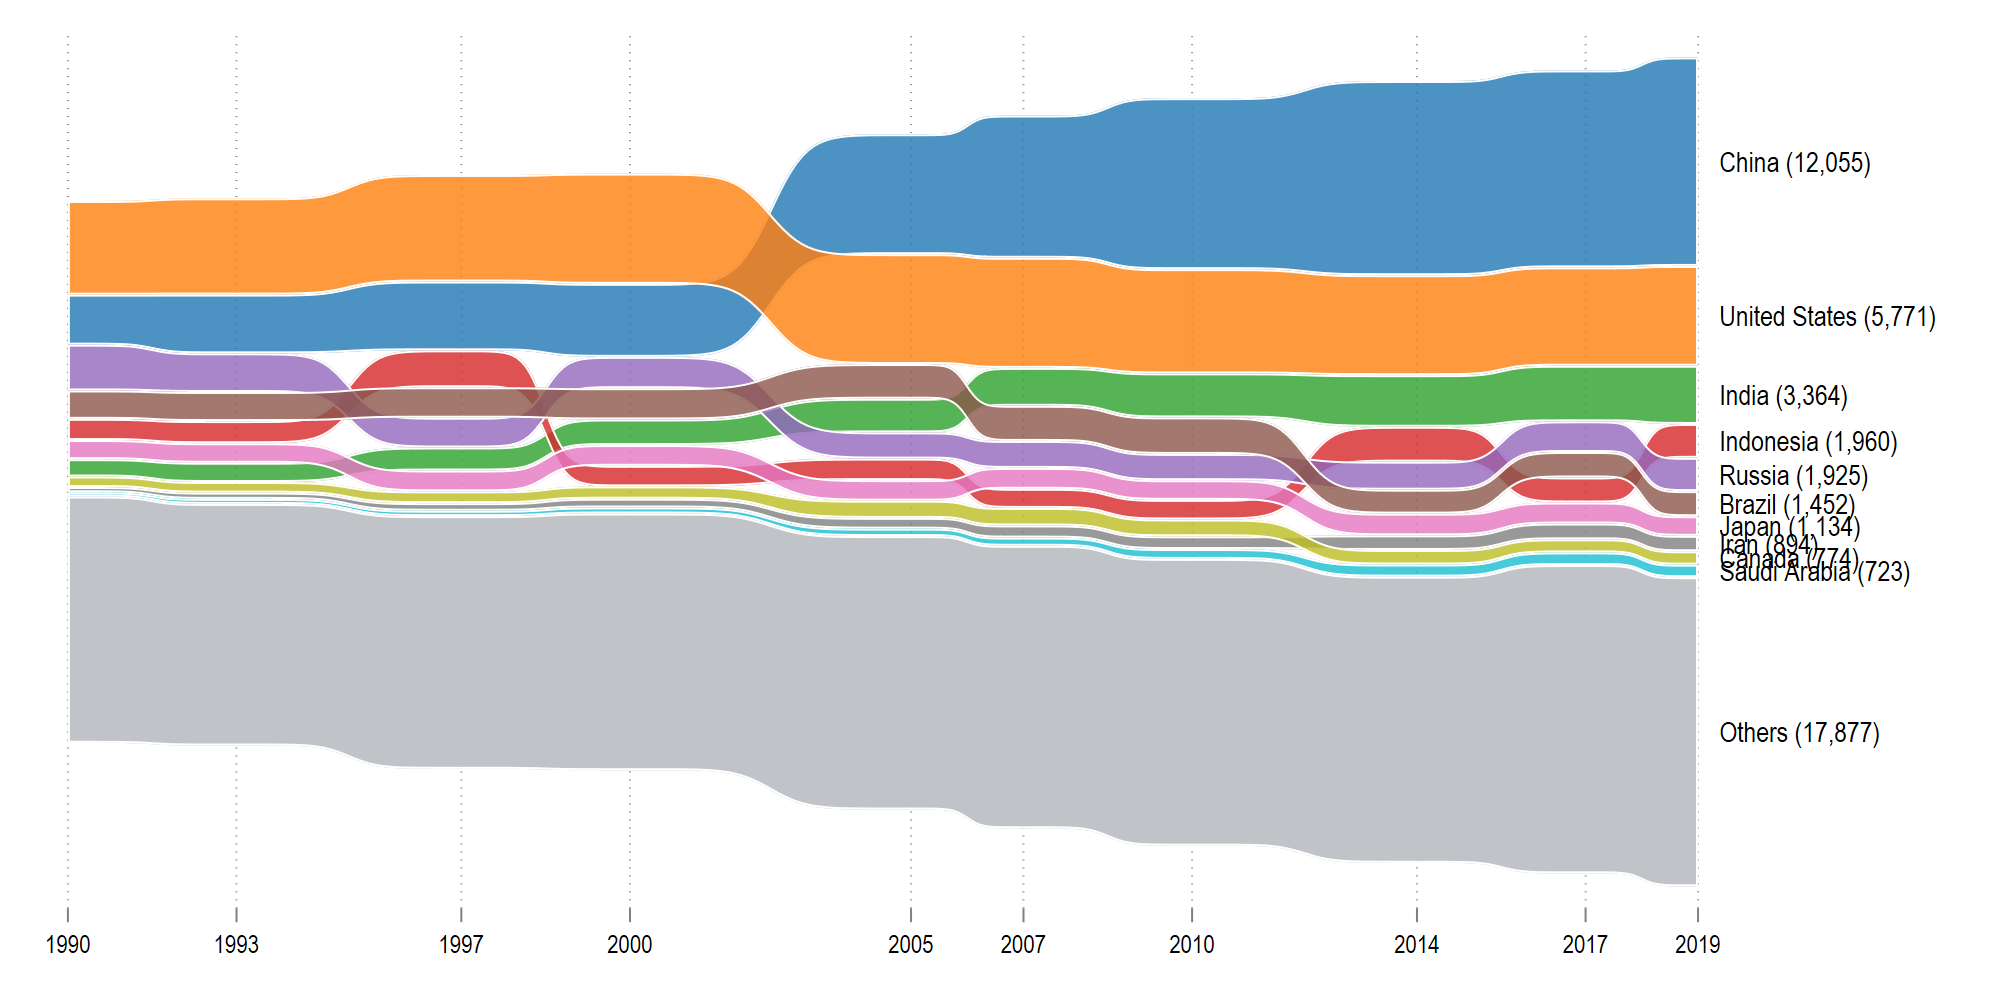
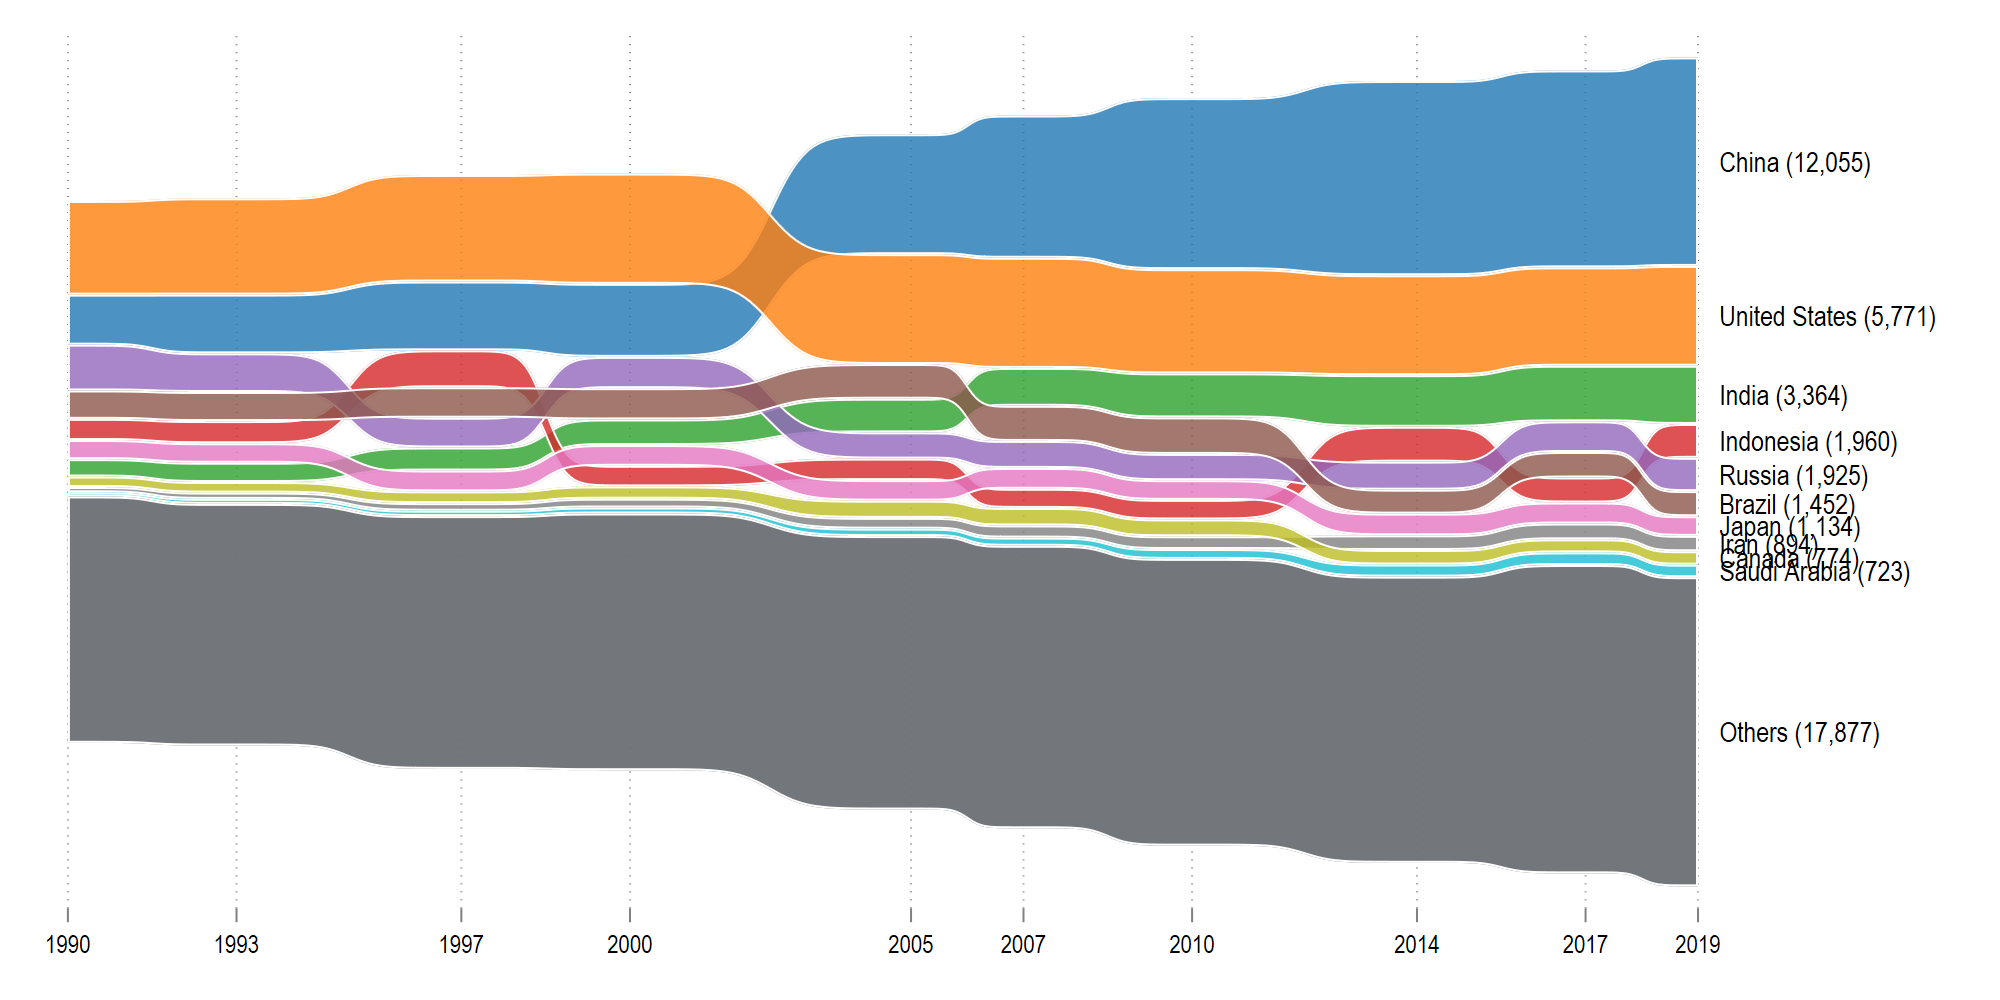
v1.2

Changed region(s): [[0.031, 0.496, 0.868, 0.899]]

diff --git a/README.md b/README.md
@@ -251,7 +251,7 @@ bumparea total_ghg year, by(country) top(10) ///
 <img src="/figures/bumparea18.png" height="400">
 
 ```
-bumparea total_ghg year, by(country) top(10) colother(gs12) ///
+bumparea total_ghg year, by(country) top(10) colother(gs6) ///
 			xsize(2) ysize(1) 		
 ```
 
